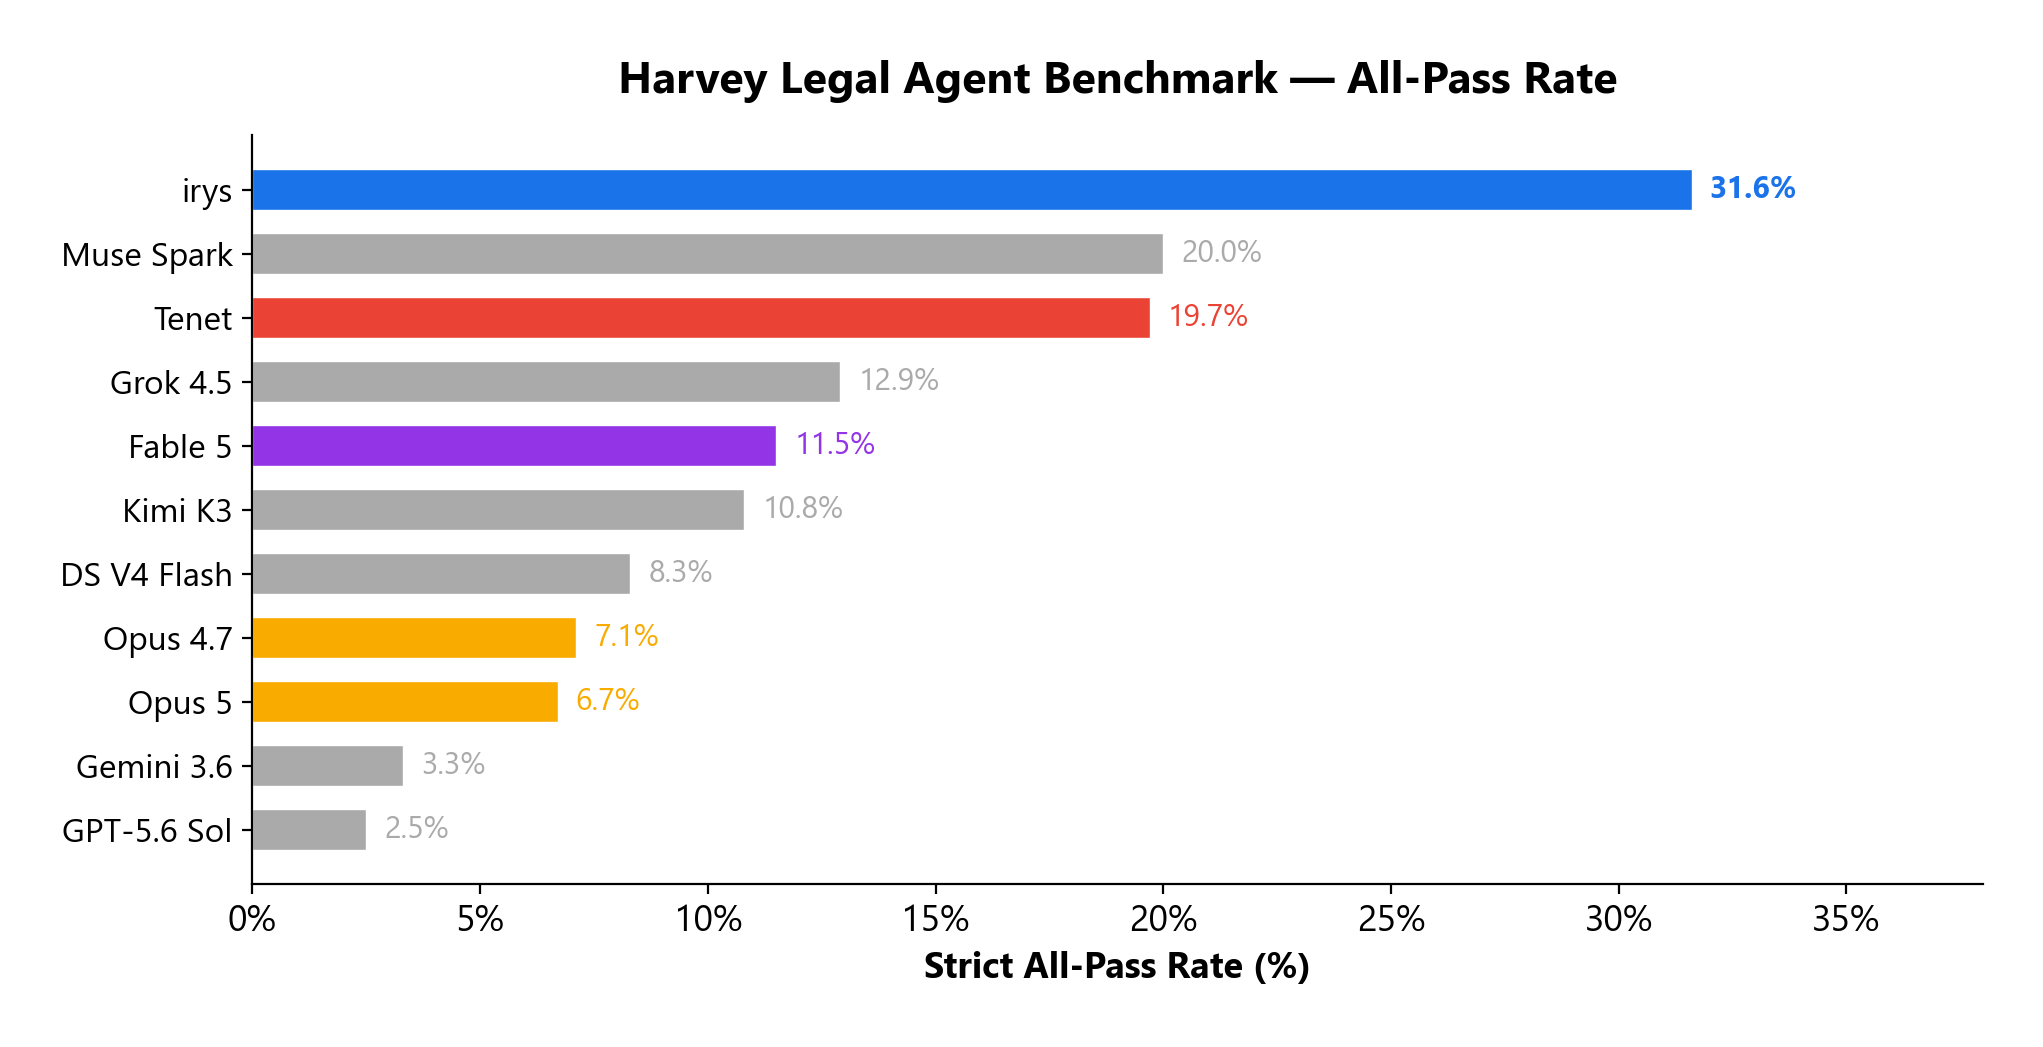
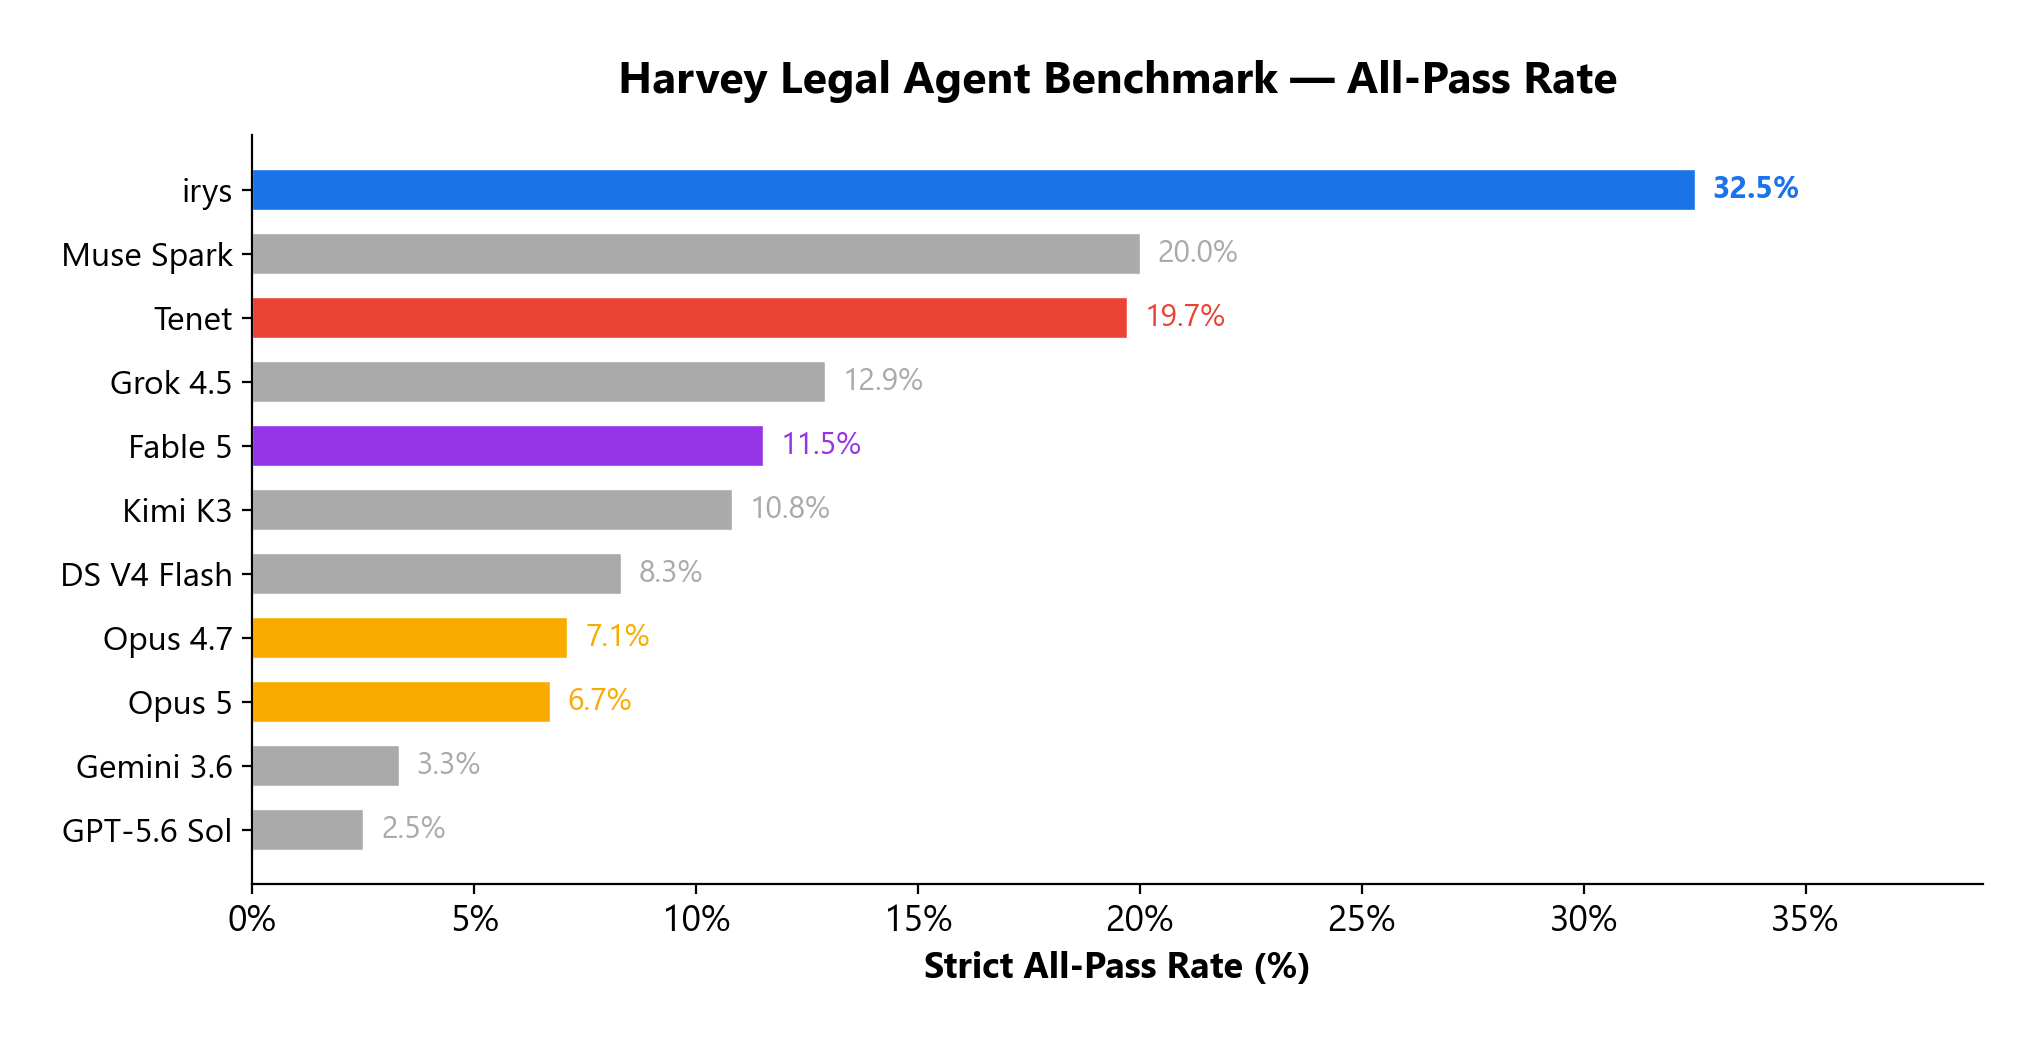
Update benchmark results after routing optimization
Committed by Devansh

diff --git a/assets/generate_charts.py b/assets/generate_charts.py
@@ -24,7 +24,7 @@ OTHER = '#aaaaaa'
 # ── Chart 1: All-Pass Rate ──
 fig, ax = plt.subplots(figsize=(10, 5))
 systems = ['irys', 'Muse Spark', 'Tenet', 'Grok 4.5', 'Fable 5', 'Kimi K3', 'DS V4 Flash', 'Opus 4.7', 'Opus 5', 'Gemini 3.6', 'GPT-5.6 Sol']
-allpass = [31.6, 20.0, 19.7, 12.9, 11.5, 10.8, 8.3, 7.1, 6.7, 3.3, 2.5]
+allpass = [32.5, 20.0, 19.7, 12.9, 11.5, 10.8, 8.3, 7.1, 6.7, 3.3, 2.5]
 colors = [IRYS, OTHER, TENET, OTHER, FABLE, OTHER, OTHER, OPUS, OPUS, OTHER, OTHER]
 
 bars = ax.barh(range(len(systems)), allpass, color=colors, height=0.65, edgecolor='white', linewidth=0.5)
@@ -39,7 +39,7 @@ for i, (bar, val) in enumerate(zip(bars, allpass)):
             f'{val}%', va='center', fontsize=11, fontweight='bold' if i == 0 else 'normal',
             color=colors[i])
 
-ax.set_xlim(0, 38)
+ax.set_xlim(0, 39)
 ax.xaxis.set_major_formatter(mticker.FormatStrFormatter('%g%%'))
 plt.tight_layout()
 plt.savefig('assets/lab_allpass_rate.png')
@@ -49,7 +49,7 @@ plt.close()
 fig, ax = plt.subplots(figsize=(10, 6))
 
 data = [
-    ('irys', 5.11, 31.6, 6.18, IRYS),
+    ('irys', 4.64, 32.5, 7.00, IRYS),
     ('Tenet', 8, 19.7, 2.46, TENET),
     ('Fable 5', 102, 11.5, 0.11, FABLE),
     ('Opus 4.7', 51, 7.1, 0.14, OPUS),
@@ -74,9 +74,9 @@ ax.set_xlim(-5, 120)
 ax.set_ylim(0, 40)
 ax.yaxis.set_major_formatter(mticker.FormatStrFormatter('%g%%'))
 
-ax.annotate('', xy=(5.11, 31.6), xytext=(102, 11.5),
+ax.annotate('', xy=(4.64, 32.5), xytext=(102, 11.5),
             arrowprops=dict(arrowstyle='->', color='#666666', lw=1.5, linestyle='--'))
-ax.text(55, 24, '56x intelligence\nper dollar', fontsize=10, color='#666666',
+ax.text(55, 24, '62x intelligence\nper dollar', fontsize=10, color='#666666',
         ha='center', style='italic')
 
 plt.tight_layout()
@@ -86,7 +86,7 @@ plt.close()
 # ── Chart 3: Cost per All-Pass Point ──
 fig, ax = plt.subplots(figsize=(9, 4.5))
 systems_cost = ['irys', 'Tenet', 'Opus 4.7', 'Fable 5']
-cpp = [0.16, 0.41, 7.18, 8.87]
+cpp = [0.14, 0.41, 7.18, 8.87]
 colors_cost = [IRYS, TENET, OPUS, FABLE]
 
 bars = ax.barh(range(len(systems_cost)), cpp, color=colors_cost, height=0.55, edgecolor='white', linewidth=0.5)
@@ -99,7 +99,7 @@ ax.set_title('Cost per Point of Quality', fontsize=16, fontweight='bold', pad=15
 for i, (bar, val) in enumerate(zip(bars, cpp)):
     label = f'${val:.2f}'
     if i == 0:
-        label += '  (55x cheaper than Fable 5)'
+        label += '  (63x cheaper than Fable 5)'
     ax.text(bar.get_width() + 0.1, bar.get_y() + bar.get_height()/2,
             label, va='center', fontsize=11, fontweight='bold' if i == 0 else 'normal',
             color=colors_cost[i])
@@ -112,7 +112,7 @@ plt.close()
 # ── Chart 4: What $100 buys ──
 fig, ax = plt.subplots(figsize=(9, 4.5))
 systems_100 = ['irys', 'Tenet', 'Opus 4.7', 'Fable 5']
-expected_pass = [6.2, 2.5, 0.14, 0.11]
+expected_pass = [7.0, 2.5, 0.14, 0.11]
 colors_100 = [IRYS, TENET, OPUS, FABLE]
 
 bars = ax.barh(range(len(systems_100)), expected_pass, color=colors_100, height=0.55, edgecolor='white', linewidth=0.5)
@@ -135,7 +135,7 @@ plt.close()
 # ── Chart 5: Training Investment vs Performance ──
 fig, ax = plt.subplots(figsize=(9, 3.5))
 
-ax.barh([0], [31.6], color=IRYS, height=0.5, label='irys-stateful-swarms')
+ax.barh([0], [32.5], color=IRYS, height=0.5, label='irys-stateful-swarms')
 ax.barh([1], [19.7], color=TENET, height=0.5, label='Harvey Tenet')
 
 ax.set_yticks([0, 1])
@@ -147,10 +147,10 @@ ax.invert_yaxis()
 ax.set_xlabel('All-Pass Rate (%)', fontsize=12, fontweight='bold')
 ax.set_title('Training Investment vs Performance', fontsize=16, fontweight='bold', pad=15)
 
-ax.text(31.6 + 0.5, 0, '31.6%', va='center', fontsize=12, fontweight='bold', color=IRYS)
+ax.text(32.5 + 0.5, 0, '32.5%', va='center', fontsize=12, fontweight='bold', color=IRYS)
 ax.text(19.7 + 0.5, 1, '19.7%', va='center', fontsize=12, fontweight='bold', color=TENET)
 
-ax.annotate('+60%', xy=(25.5, 0.5), fontsize=14, fontweight='bold', color='#333',
+ax.annotate('+65%', xy=(26, 0.5), fontsize=14, fontweight='bold', color='#333',
             ha='center', va='center',
             bbox=dict(boxstyle='round,pad=0.3', facecolor='#e8f0fe', edgecolor=IRYS, linewidth=1.5))
 

diff --git a/README.md b/README.md
@@ -1,6 +1,6 @@
 # irys-stateful-swarms
 
-**The highest all-pass rate on the Legal Agent Benchmark at $5.11/task.** On all 2,010 tasks in the [Harvey Legal Agent Benchmark (LAB) v1.0](https://github.com/harveyai/harvey-labs) — 27 legal practice areas — irys-stateful-swarms achieves **31.6% strict all-pass** and **91.35% criteria macro** at **$5.11/task**, exceeding every published result including Harvey's own post-trained [Tenet model](https://www.harvey.ai/blog/post-training-update-harvey-tenet) (19.7%) and all frontier model baselines — with no fine-tuning, no custom training data, and no domain-specific scaffolding. See [benchmark comparison](#benchmark-comparison), [verification](#verification), and [benchmark context](#context).
+**The highest all-pass rate on the Legal Agent Benchmark at $4.64/task.** On all 2,010 tasks in the [Harvey Legal Agent Benchmark (LAB) v1.0](https://github.com/harveyai/harvey-labs) — 27 legal practice areas — irys-stateful-swarms achieves **32.5% strict all-pass** and **91.44% criteria macro** at **$4.64/task**, exceeding every published result including Harvey's own post-trained [Tenet model](https://www.harvey.ai/blog/post-training-update-harvey-tenet) (19.7%) and all frontier model baselines — with no fine-tuning, no custom training data, and no domain-specific scaffolding. See [benchmark comparison](#benchmark-comparison), [verification](#verification), and [benchmark context](#context).
 
 ### At a glance
 
@@ -8,7 +8,7 @@
 
 ![Performance vs Cost — Harvey LAB](assets/lab_performance_vs_cost.png)
 
-**56x** more intelligence per dollar than Fable 5. **44x** more than Opus 4.7. **60%** higher all-pass than Harvey Tenet — with zero training.
+**62x** more intelligence per dollar than Fable 5. **50x** more than Opus 4.7. **65%** higher all-pass than Harvey Tenet — with zero training.
 
 ![What $100 Buys You on LAB](assets/lab_what_100_buys.png)
 
@@ -55,12 +55,12 @@ irys-stateful-swarms completed the full public [Harvey Legal Agent Benchmark (LA
 | Metric | Result |
 |---|---|
 | Tasks completed | `2,010 / 2,010` |
-| Criteria macro | `91.35%` |
-| Criteria micro | `105,240 / 114,437 = 91.96%` |
-| Strict all-pass | `636 / 2,010 = 31.6%` |
-| Tasks at 95%+ | `1,233 / 2,010 = 61.3%` |
-| Total cost | `$10,266` |
-| Cost per task | `$5.11` |
+| Criteria macro | `91.44%` |
+| Criteria micro | `105,146 / 114,437 = 91.88%` |
+| Strict all-pass | `654 / 2,010 = 32.5%` |
+| Tasks at 95%+ | `1,260 / 2,010 = 62.7%` |
+| Total cost | `$9,317` |
+| Cost per task | `$4.64` |
 
 ### Benchmark comparison
 
@@ -68,7 +68,7 @@ Harvey published official LAB results for Tenet and frontier model baselines in 
 
 | System | LAB All-Pass | Est. Cost/Task |
 |---|---:|---:|
-| **irys-stateful-swarms** | **31.6%** | **$5.11** |
+| **irys-stateful-swarms** | **32.5%** | **$4.64** |
 | Muse Spark 1.1 | 20.0% | ~$0.50 |
 | Harvey Tenet (Kimi K3 + RL) | 19.7% | ~$8 |
 | Grok 4.5 | 12.9% | ~$1 |
@@ -81,7 +81,7 @@ Harvey published official LAB results for Tenet and frontier model baselines in 
 | Gemini 3.6 Flash | 3.3% | ~$2 |
 | GPT-5.6 Sol | 2.5% | ~$12 |
 
-> **A note on cost and benchmark versions:** The Opus 4.7 cost (~$51/task) was measured on the **original** LAB release (1,251 tasks, 24 families). LAB v1.0 substantially expanded the benchmark to 2,010 tasks and 27 families, adding the firm-knowledge family (250 enterprise-search tasks over a shared 9,288-document DMS), an expanded contracts family, and diligence — all of which involve significantly longer documents and deeper cross-document reasoning than the original task set. Frontier model costs on the v1.0 benchmark would likely be **materially higher** than the original figures, because the new tasks require more tokens to process. irys cost ($5.11/task) is measured on the harder v1.0 benchmark — making the cost advantage over frontier models even larger than the raw numbers suggest.
+> **A note on cost and benchmark versions:** The Opus 4.7 cost (~$51/task) was measured on the **original** LAB release (1,251 tasks, 24 families). LAB v1.0 substantially expanded the benchmark to 2,010 tasks and 27 families, adding the firm-knowledge family (250 enterprise-search tasks over a shared 9,288-document DMS), an expanded contracts family, and diligence — all of which involve significantly longer documents and deeper cross-document reasoning than the original task set. Frontier model costs on the v1.0 benchmark would likely be **materially higher** than the original figures, because the new tasks require more tokens to process. irys cost ($4.64/task) is measured on the harder v1.0 benchmark — making the cost advantage over frontier models even larger than the raw numbers suggest.
 >
 > Harvey's published all-pass results are on their private holdout set (~1,200 tasks), which is not publicly available. There is no way for us to run irys on the holdout set or for Harvey to publish their models' costs on the public set, so a direct apples-to-apples cost comparison is not possible. Opus 4.7 cost from Harvey's [initial LAB publication](https://www.harvey.ai/blog/legal-agent-benchmark-initial-results). Fable 5 and Opus 5 costs are estimated from published per-token pricing applied to the Opus 4.7 baseline — see [frontier cost analysis](#frontier-cost-analysis). Other costs from Harvey's [Tenet Research Preview](https://www.harvey.ai/blog/post-training-update-harvey-tenet). If Harvey or any model provider publishes verified costs on the public benchmark, we will update this table accordingly.
 
@@ -103,20 +103,20 @@ Harvey's [initial LAB publication](https://www.harvey.ai/blog/legal-agent-benchm
 
 | | **irys** | Harvey Tenet | Fable 5 | Opus 4.7 |
 |---|---:|---:|---:|---:|
-| LAB All-Pass | **31.6%** | 19.7% | 11.5% | 7.1% |
-| Cost/Task | **$5.11** | ~$8 | ~$102 | ~$51 |
-| All-pass per dollar | **6.18** | 2.46 | 0.11 | 0.14 |
-| Cost per all-pass point | **$0.16** | $0.41 | $8.87 | $7.18 |
+| LAB All-Pass | **32.5%** | 19.7% | 11.5% | 7.1% |
+| Cost/Task | **$4.64** | ~$8 | ~$102 | ~$51 |
+| All-pass per dollar | **7.00** | 2.46 | 0.11 | 0.14 |
+| Cost per all-pass point | **$0.14** | $0.41 | $8.87 | $7.18 |
 | Training investment | **Zero** | 150 B300 GPUs, 2 months | — | — |
 
-irys-stateful-swarms delivers **56x** the intelligence per dollar of Fable 5, **44x** Opus 4.7, and **2.5x** Harvey Tenet — with no fine-tuning, no custom training data, and no domain-specific scaffolding.
+irys-stateful-swarms delivers **62x** the intelligence per dollar of Fable 5, **50x** Opus 4.7, and **2.8x** Harvey Tenet — with no fine-tuning, no custom training data, and no domain-specific scaffolding.
 
 <details>
 <summary>What $100 buys on LAB (data)</summary>
 
 | System | Tasks per $100 | All-pass rate | Expected all-pass tasks per $100 |
 |---|---:|---:|---:|
-| **irys-stateful-swarms** | **19.6** | **31.6%** | **6.2** |
+| **irys-stateful-swarms** | **21.6** | **32.5%** | **7.0** |
 | Harvey Tenet | 12.5 | 19.7% | 2.5 |
 | Opus 4.7 | 2.0 | 7.1% | 0.14 |
 | Fable 5 | 1.0 | 11.5% | 0.11 |
@@ -130,13 +130,13 @@ irys-stateful-swarms delivers **56x** the intelligence per dollar of Fable 5, **
 |---|---|---|---:|---:|
 | Raw model | Kimi K3 | None | 10.8% | — |
 | Post-training | Kimi K3 | LoRA + GSPO, 150 B300 GPUs, 2 months | 19.7% | +82% |
-| Coordination architecture | General-purpose models | Stateful swarms, zero training | **31.6%** | **+193%** |
+| Coordination architecture | General-purpose models | Stateful swarms, zero training | **32.5%** | **+201%** |
 
-Harvey invested in domain-specific post-training: RL over ~1,750 legal environments on 150 GPUs for 2 months. That lifted Kimi K3 from 10.8% to 19.7% (+82%). irys achieves +193% over the same baseline with zero training compute.
+Harvey invested in domain-specific post-training: RL over ~1,750 legal environments on 150 GPUs for 2 months. That lifted Kimi K3 from 10.8% to 19.7% (+82%). irys achieves +201% over the same baseline with zero training compute.
 
 </details>
 
-The most expensive frontier models deliver the worst results — Fable 5 at ~$102/task achieves only 11.5% all-pass, spending 20x what irys costs for 64% lower performance. Frontier intelligence alone does not solve long-horizon document analysis — coordination does.
+The most expensive frontier models deliver the worst results — Fable 5 at ~$102/task achieves only 11.5% all-pass, spending 22x what irys costs for 65% lower performance. Frontier intelligence alone does not solve long-horizon document analysis — coordination does.
 
 ### Verification
 
@@ -166,7 +166,7 @@ The benchmark run excludes several [Irys](https://www.irys.ai) production capabi
 - **Blackboard reuse** — in production, analytical state from prior queries persists and compounds. The benchmark forbids reuse: each of the 2,010 tasks starts from zero.
 - **DMS-optimized retrieval** — the firm-knowledge family (250 tasks, 9,288 shared documents) is the exact use case Irys's ingestion pipeline is designed for. On the benchmark, the system receives the raw document set with no pre-processing.
 
-These capabilities would have the largest impact on the firm-knowledge tasks (document management, multi-filing analysis, cross-reference extraction) — precisely the tasks where building prior state eliminates redundant work. The 31.6% all-pass rate reflects none of that advantage.
+These capabilities would have the largest impact on the firm-knowledge tasks (document management, multi-filing analysis, cross-reference extraction) — precisely the tasks where building prior state eliminates redundant work. The 32.5% all-pass rate reflects none of that advantage.
 
 #### The production multiplier
 
